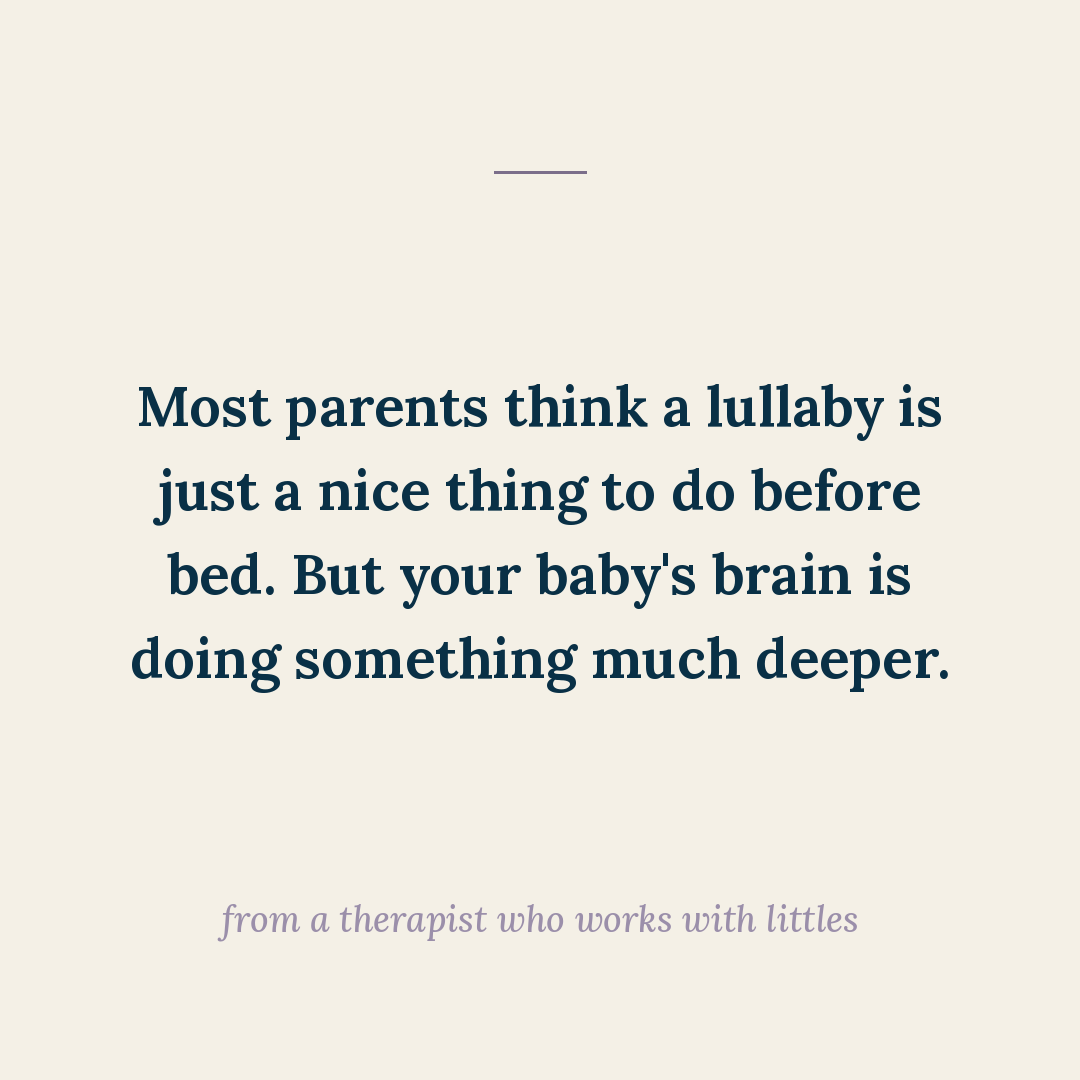
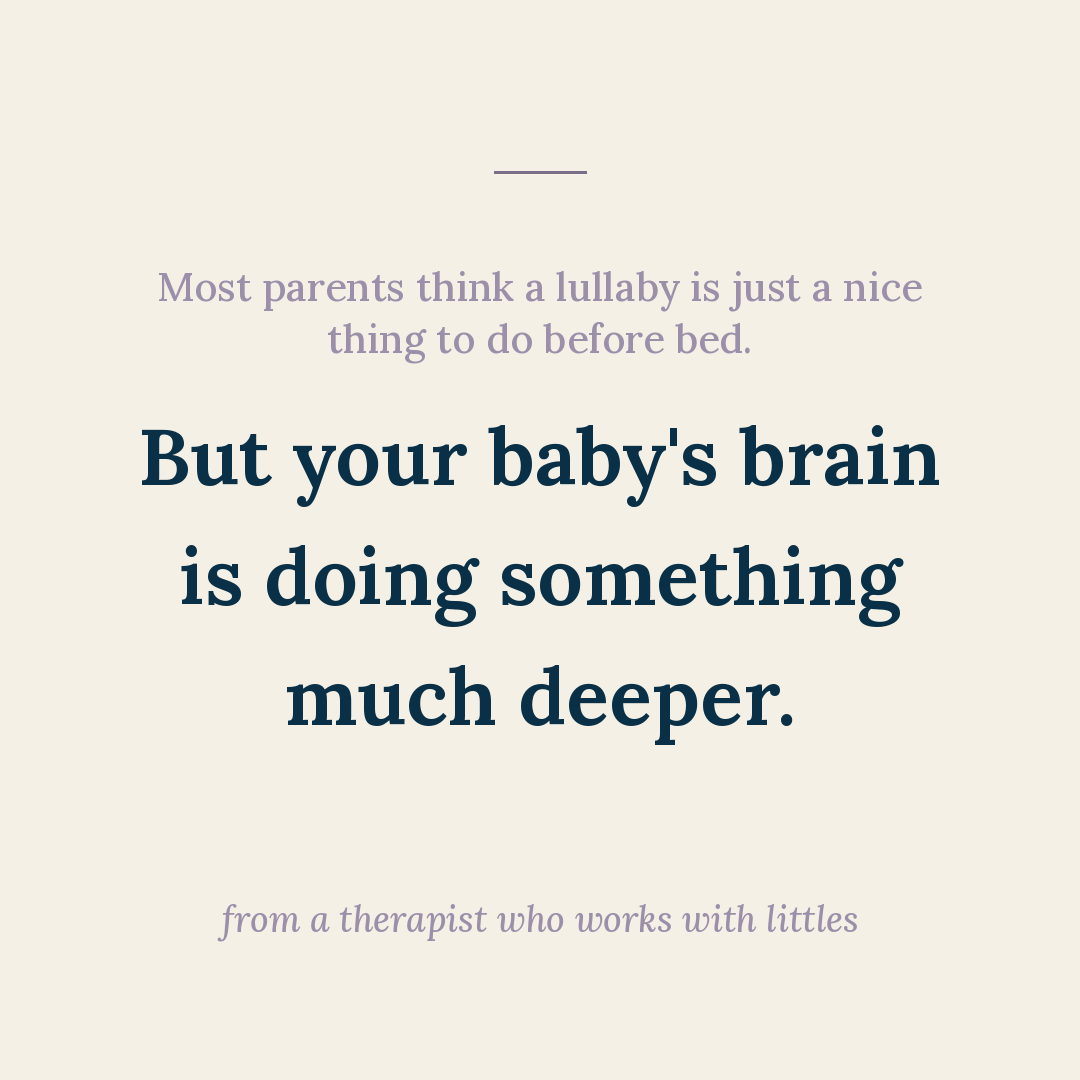
Add ad-test-what-a-lullaby-is-really-doing (Ad Test - What A Lullaby Is Really Doing)

Changed region(s): [[0.1222, 0.2444, 0.8861, 0.7028]]

diff --git a/posts/ad-test-what-a-lullaby-is-really-doing/slides.md b/posts/ad-test-what-a-lullaby-is-really-doing/slides.md
@@ -2,11 +2,12 @@
 
 Format: carousel · bg cream · lane Lullaby-subject · CTA Website
 Source: Ben's ad-concept #1 (`Social Media/ad-concepts.md`), verbatim. Test as a regular carousel.
-Cover carries Ben's first two lines together (the reframe); cover rendered at max_size=56 so both
-sentences fit above the byline.
+Cover uses the new myth-bust layout: sentence 1 as the small lavender eyebrow (setup), sentence 2 as
+the big navy reframe hook (render_cover gained an optional `eyebrow=` arg for this).
 
-## Cover
-Most parents think a lullaby is just a nice thing to do before bed. But your baby's brain is doing something much deeper.
+## Cover (eyebrow setup + reframe hook)
+eyebrow: Most parents think a lullaby is just a nice thing to do before bed.
+hook: But your baby's brain is doing something much deeper.
 
 ## Items
 01 — Long before they can say your name, they recognize your voice.
